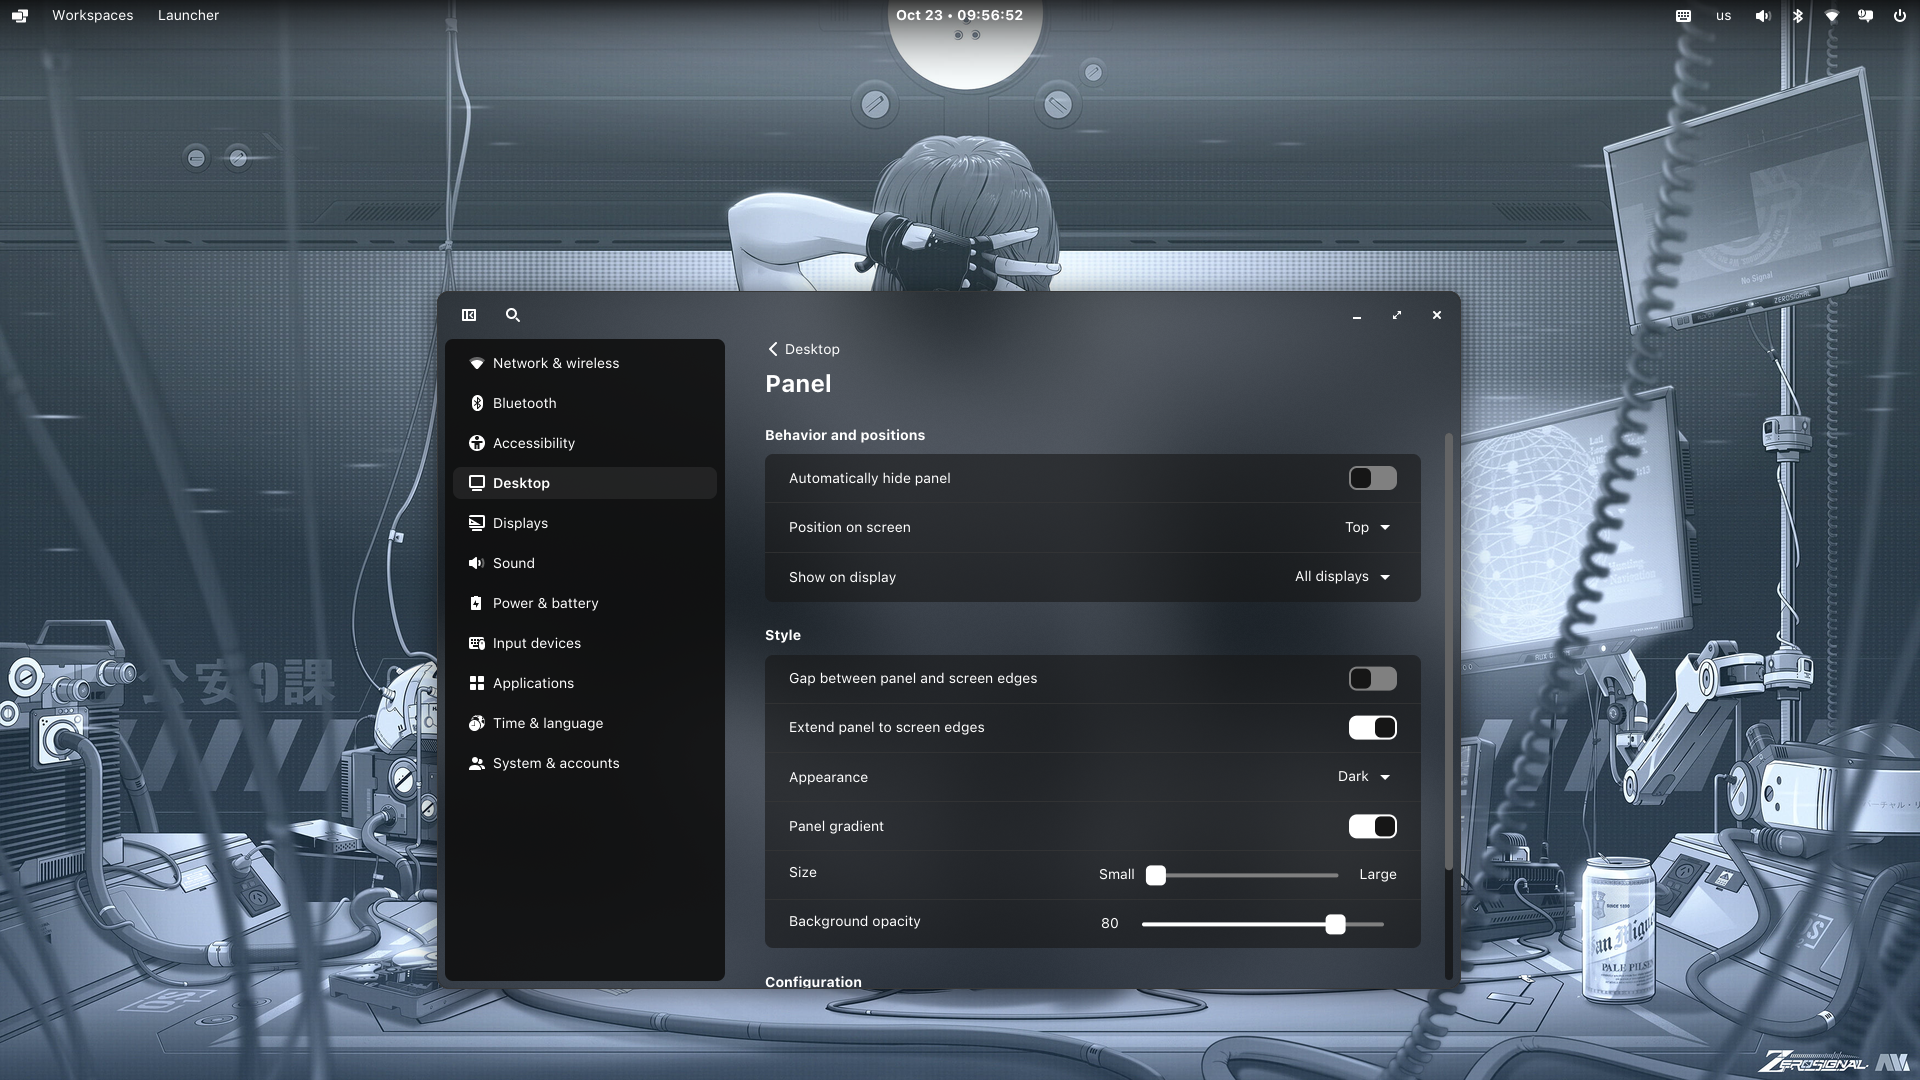
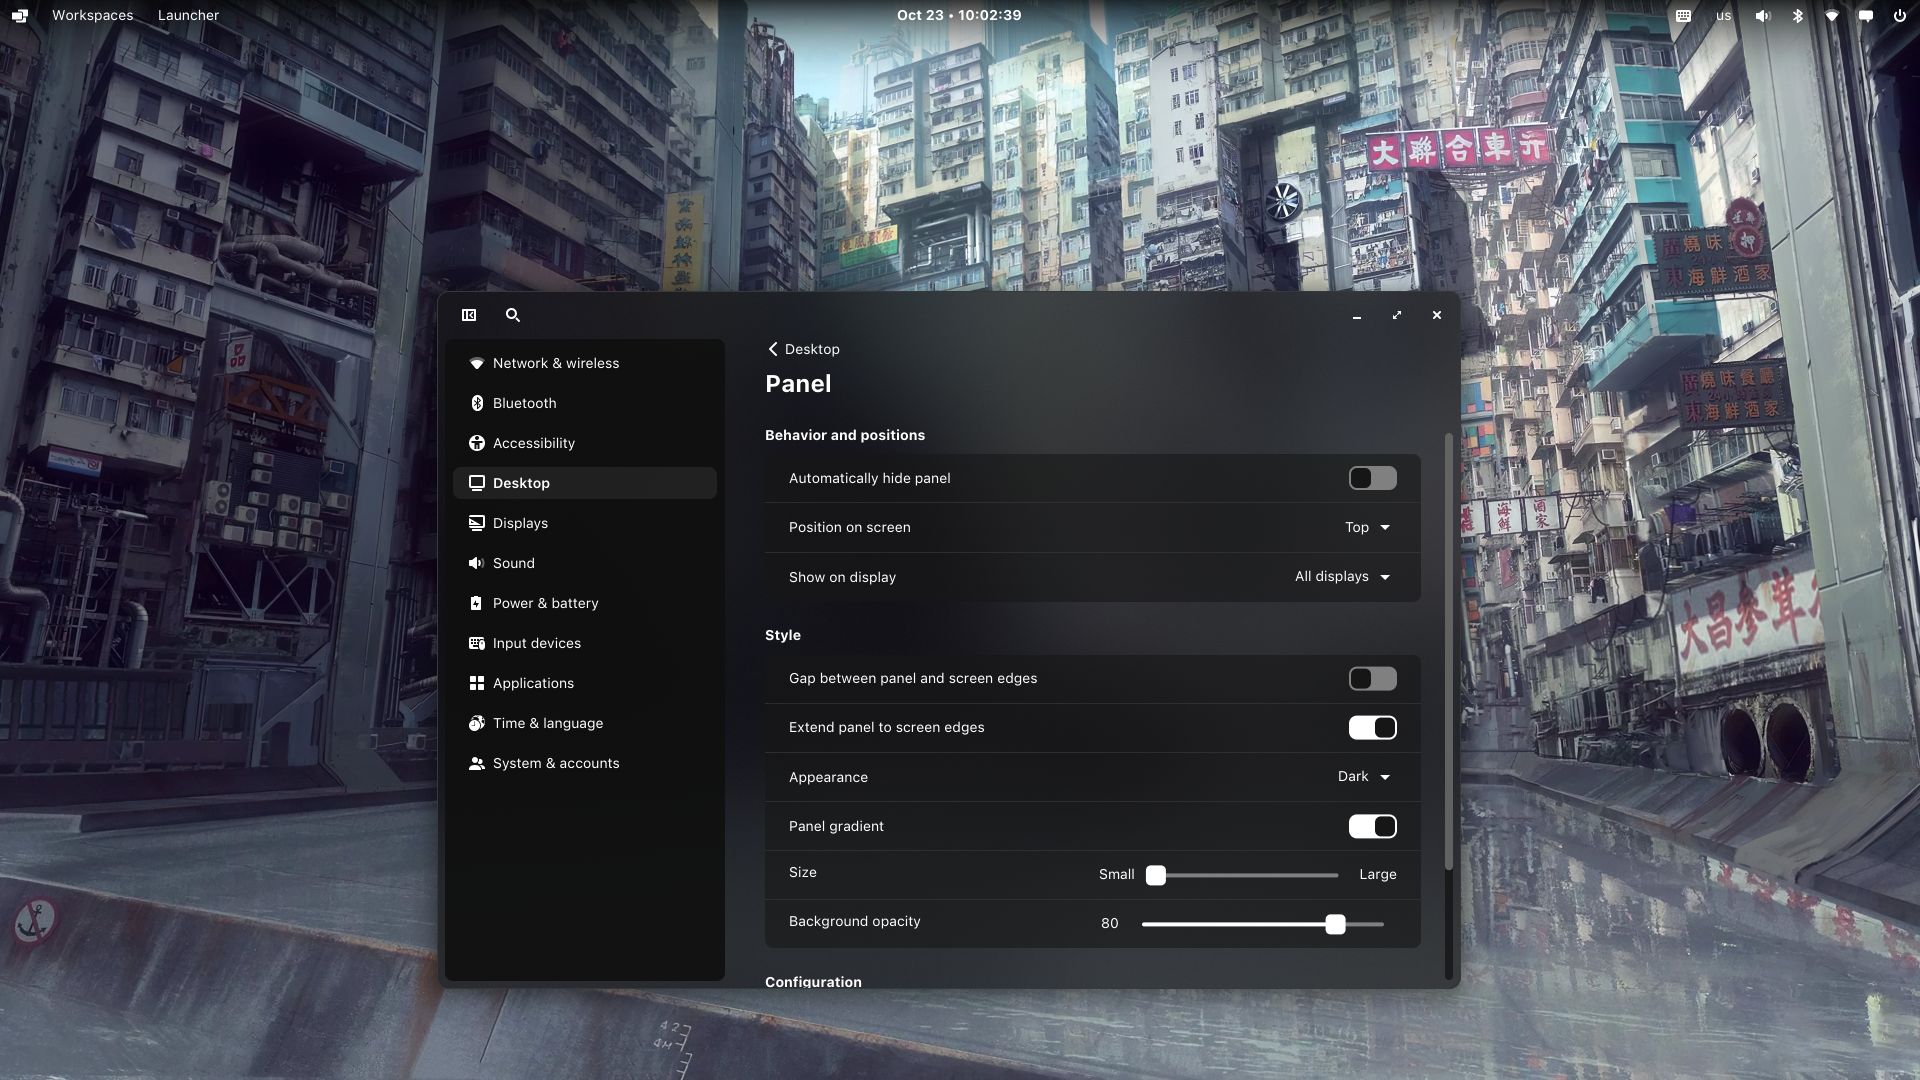
Update dark screenshot and simplify feature descriptions

diff --git a/README.md b/README.md
@@ -17,10 +17,7 @@ A softer edge for your COSMIC desktop. Penumbra replaces the panel's flat backgr
 - Gradient strength follows **Background opacity** in COSMIC Settings.
 - Adaptive fade size: 32 px panel → 96 px gradient, 48 → 144, 64 → 192.
 - Auto-hide moves and fades the background with the panel.
-- Matching 200 ms fades between the gradient and the maximized background.
 - A **Panel gradient** switch in Settings, independently for the panel and dock.
-
-When a window is maximized, the background becomes uniform at 96% opacity (4% transparency). Restoring the window brings the gradient back. With **Gap** enabled, the effect and its switch are disabled; turning Gap off restores your saved setting.
 
 ## Compatibility
 
